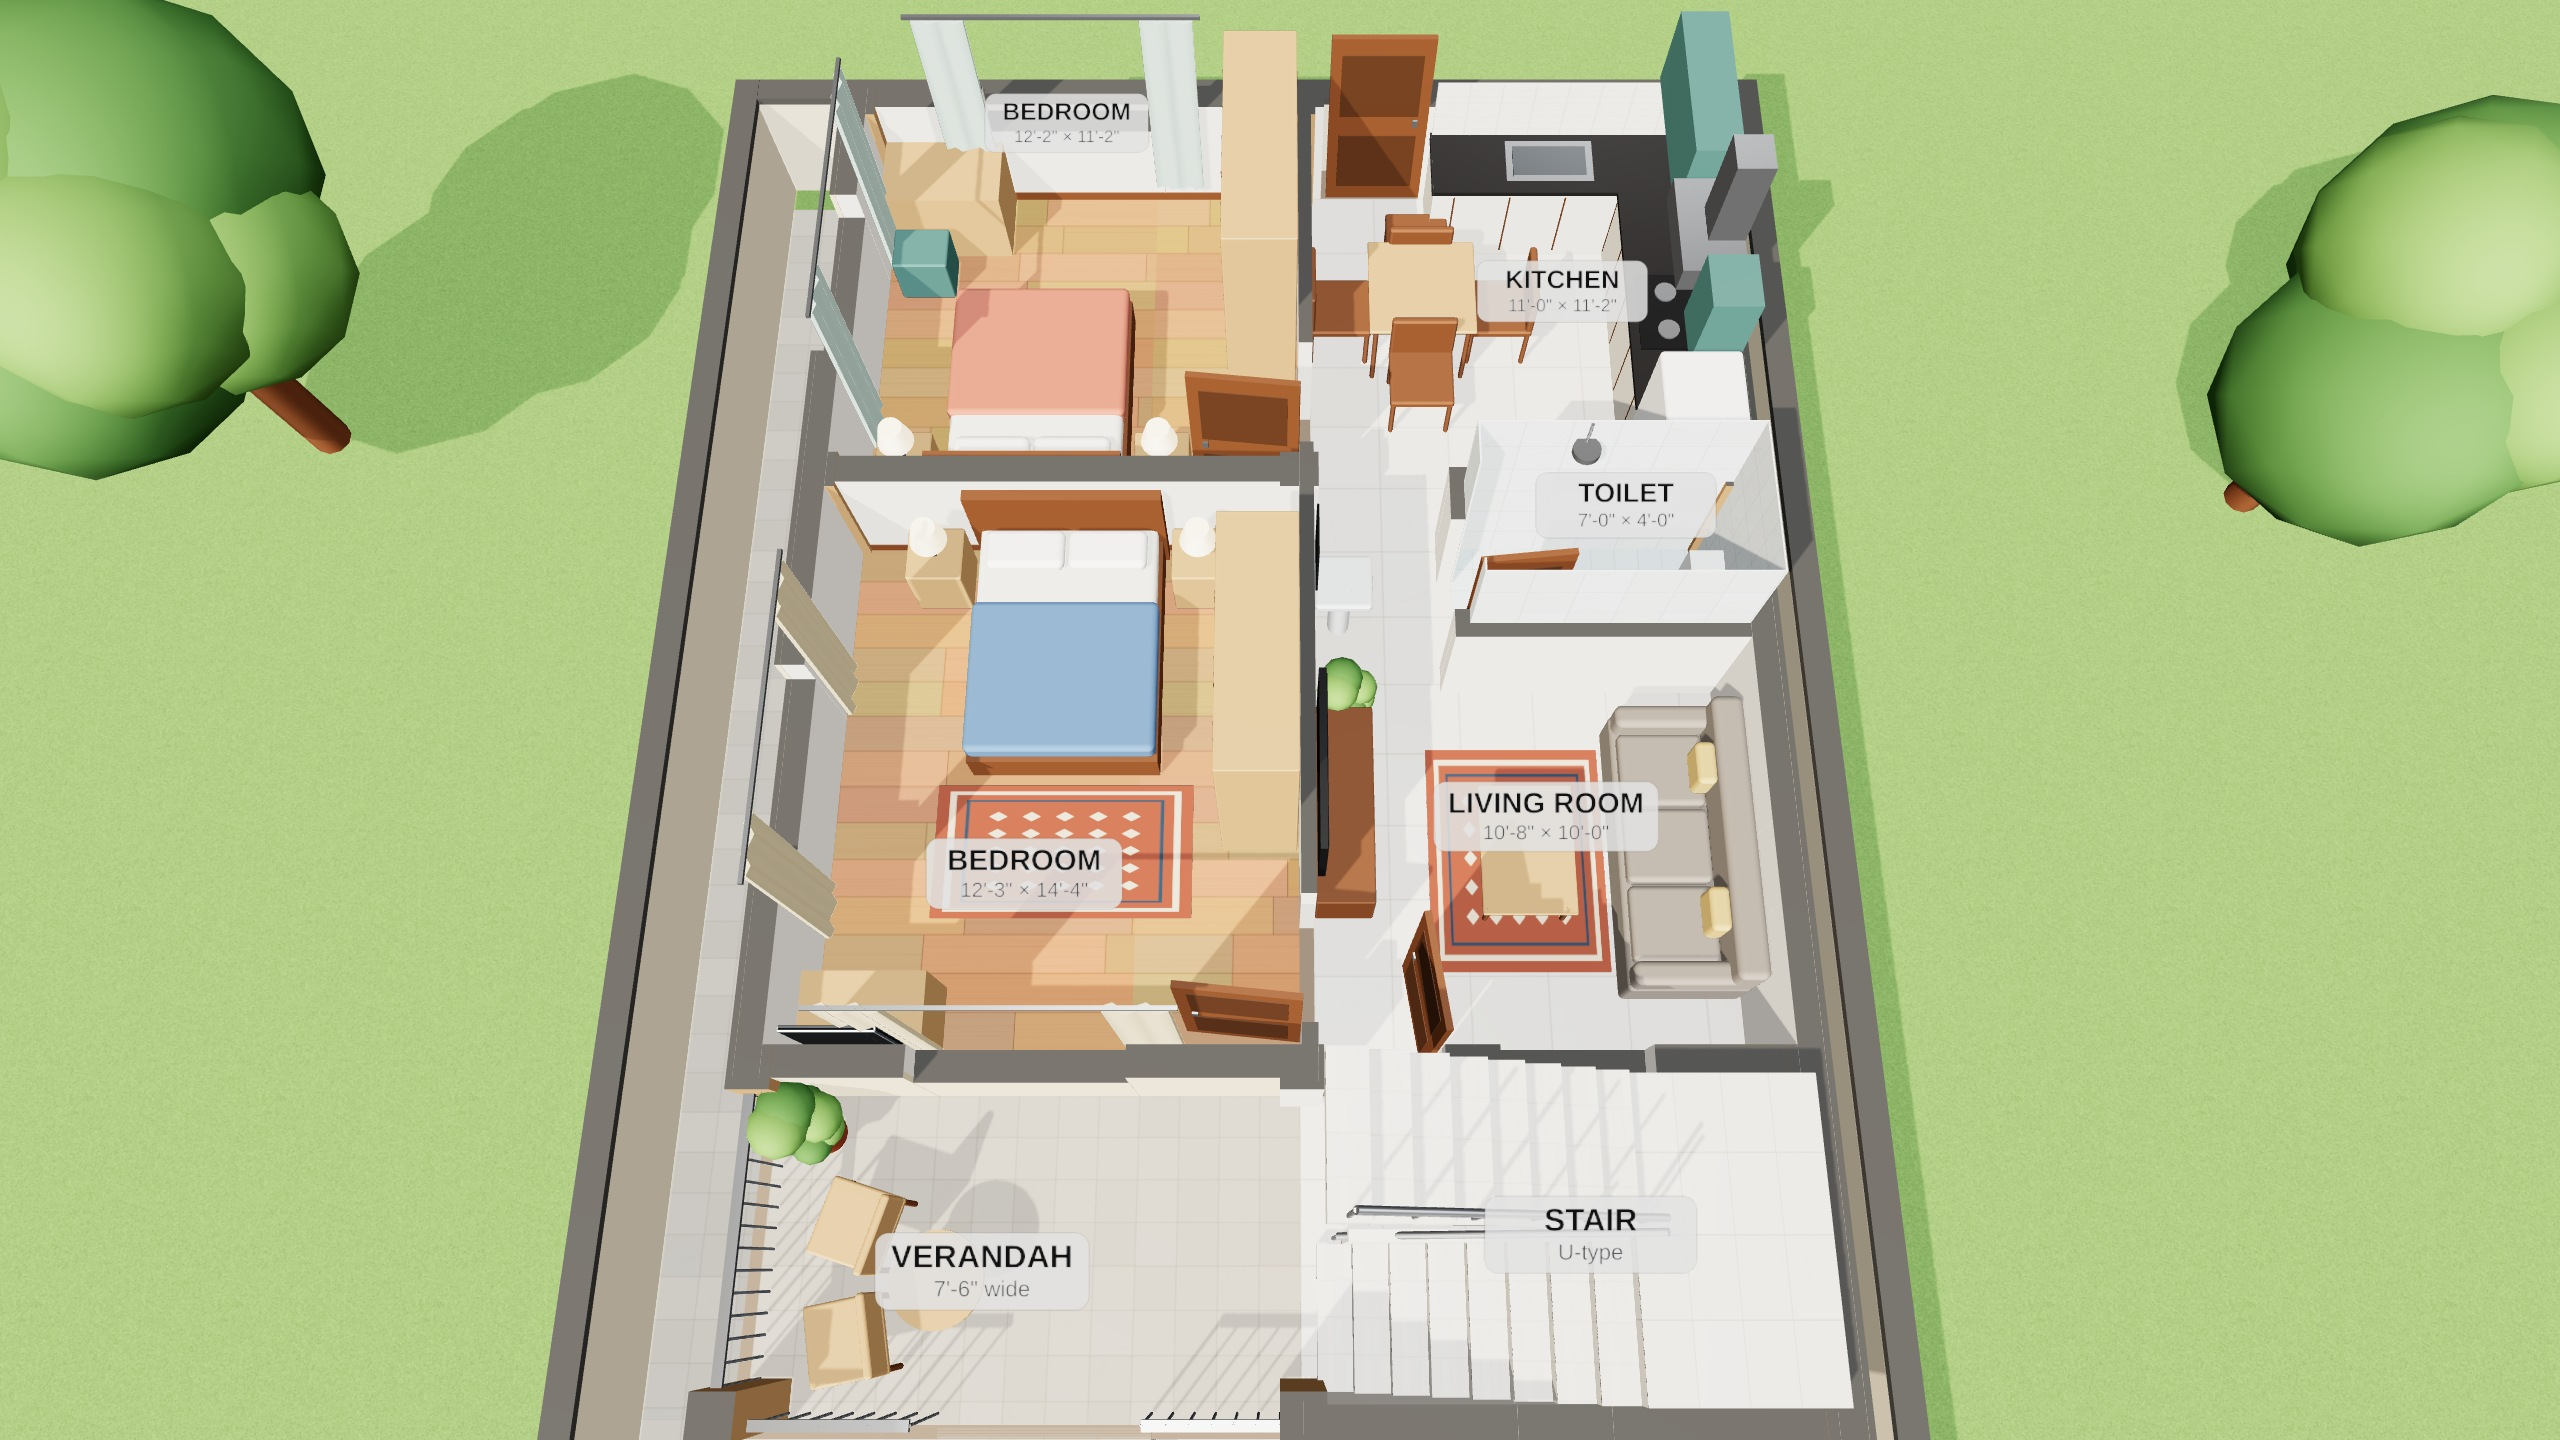
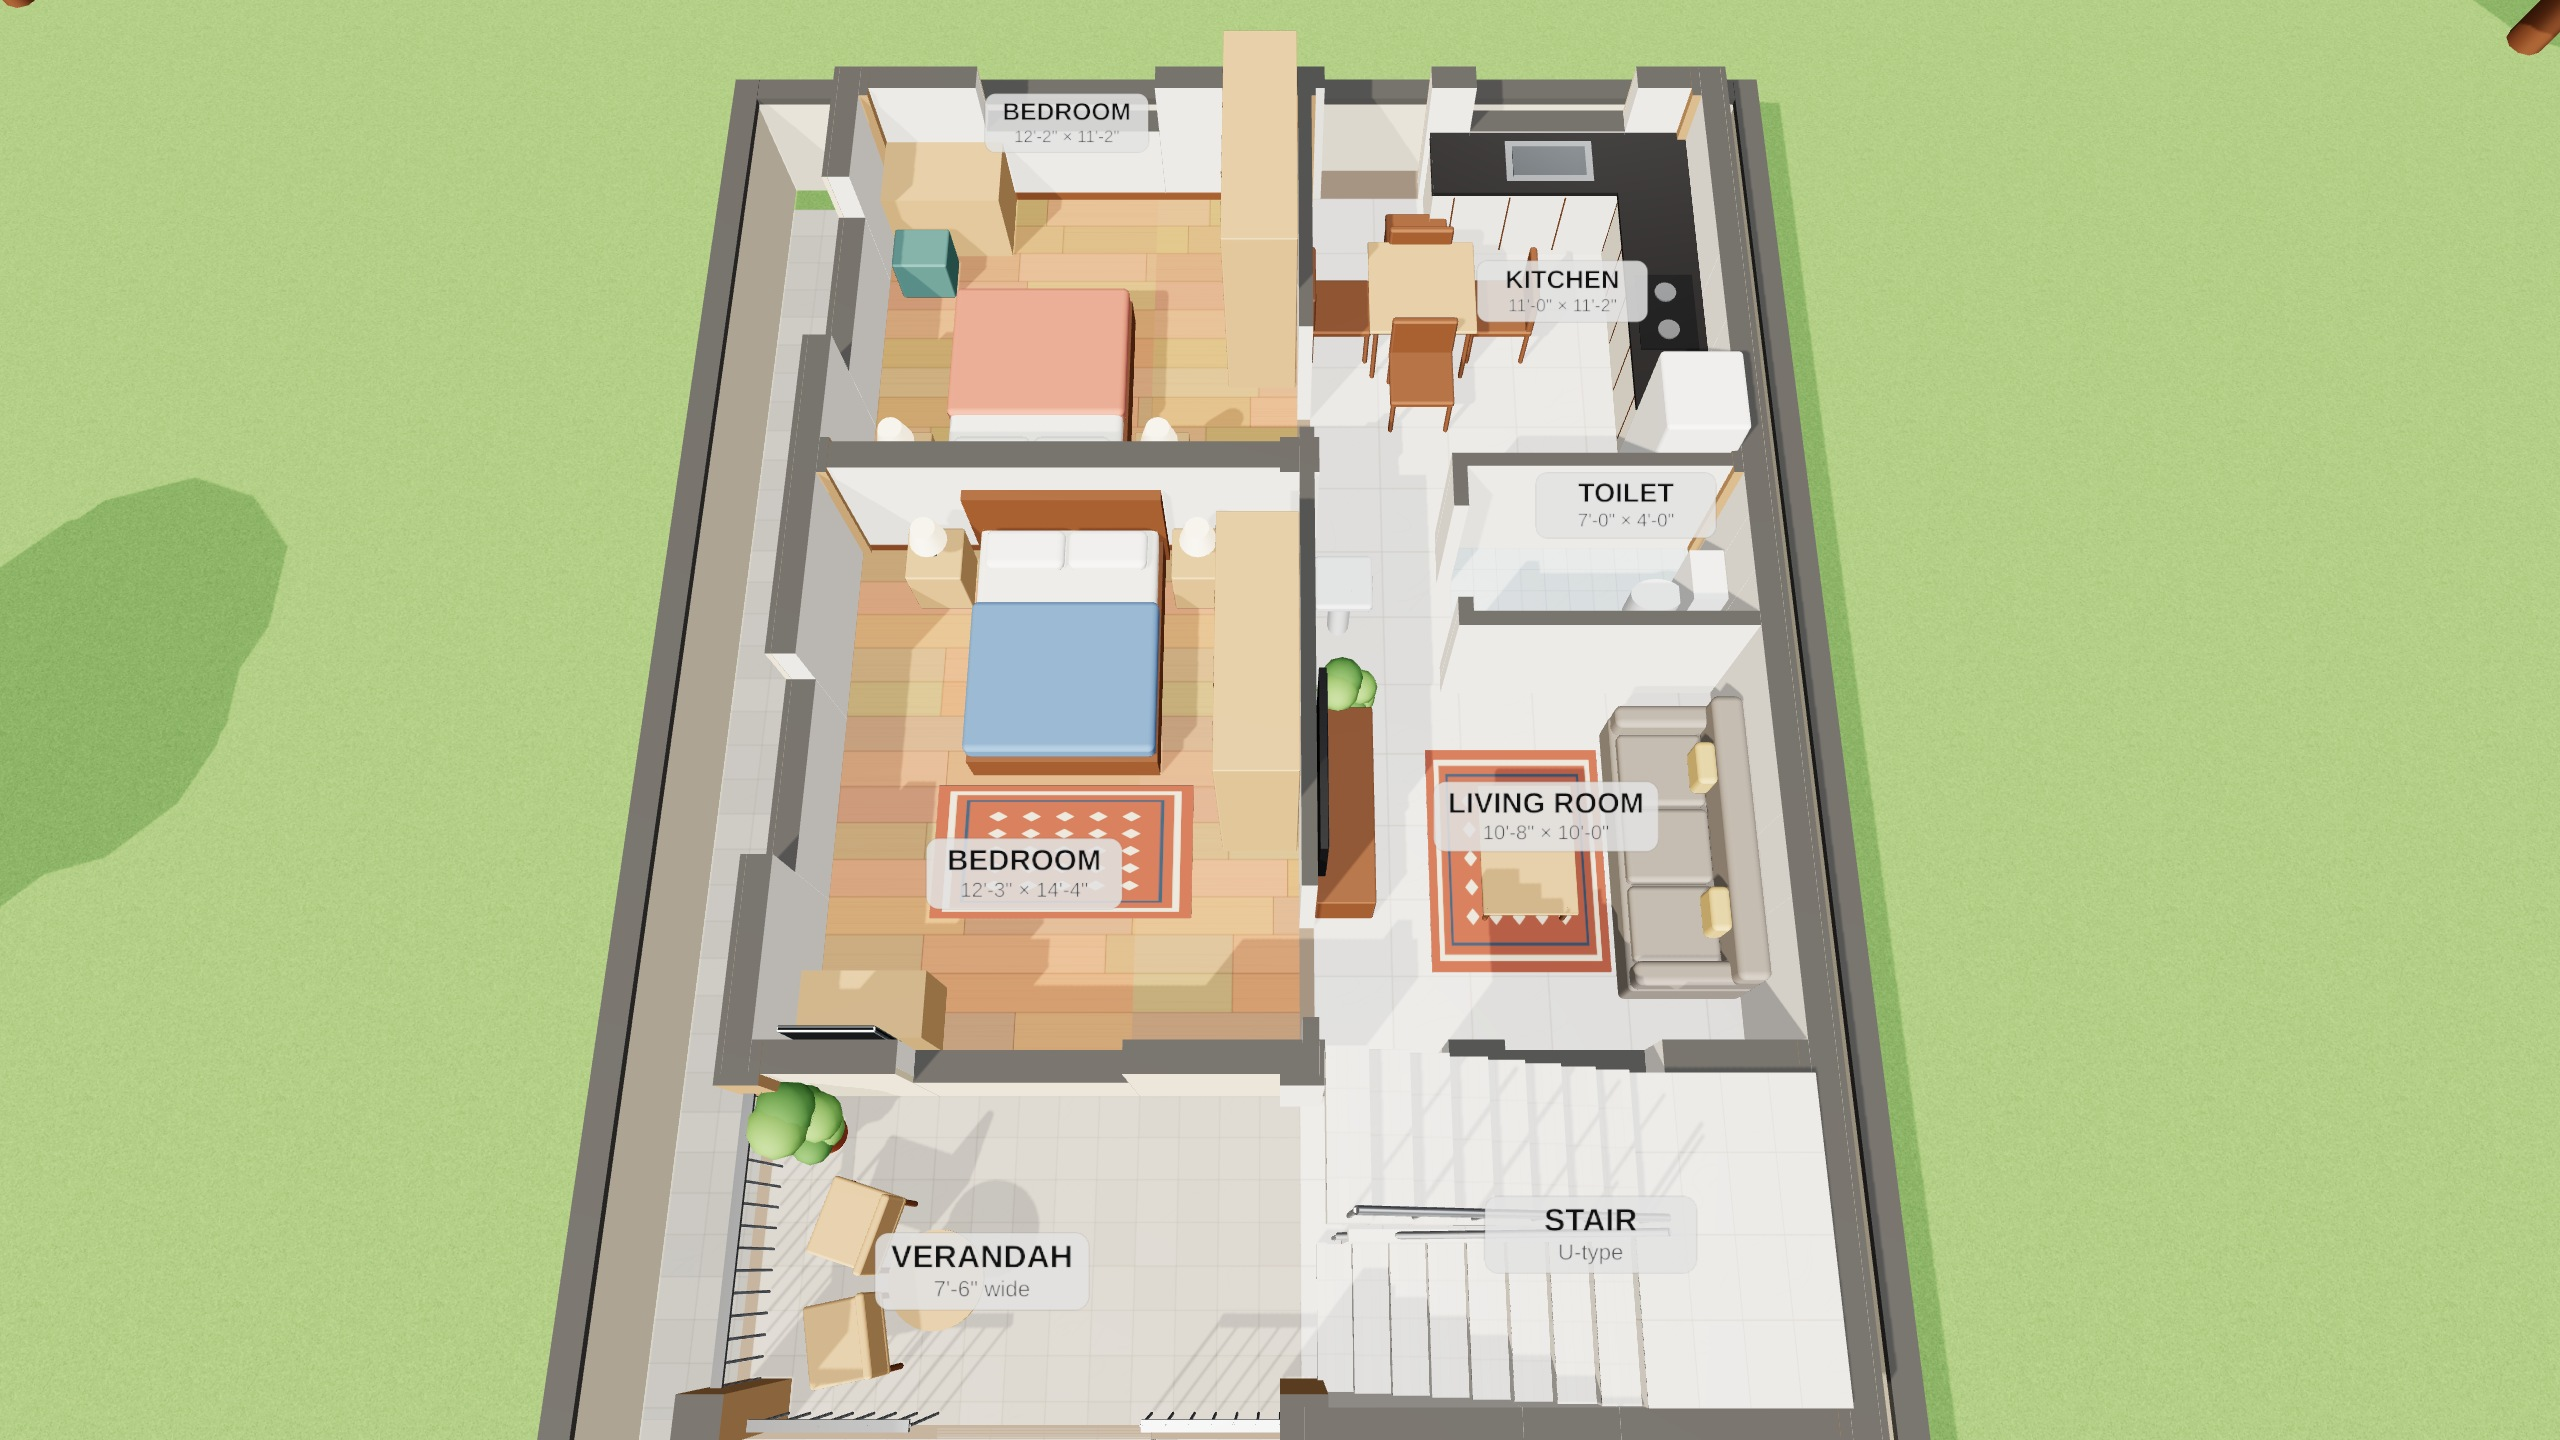
Add half-wall 3D views of the ground floor
The walls cut at 4'-9", half their height, with door leaves, curtains,
wall tiles and wall cabinets hidden, seen from the four corners, from
the front-left with room labels, and from the top.

Claude-Session: https://claude.ai/code/session_01L3hZmj9oe8Yfp8ZvHXW3mm

diff --git a/media/house-3d/house.js b/media/house-3d/house.js
@@ -162,6 +162,7 @@ const walls = new THREE.Group(); scene.add(walls);          // full-height walls
 const cutWalls = new THREE.Group(); scene.add(cutWalls);    // walls cut at 4 ft, for the plan view
 const ceiling = new THREE.Group(); scene.add(ceiling);
 const labels = new THREE.Group(); scene.add(labels);
+const tall = new THREE.Group(); scene.add(tall);             // above half height: hidden in the half-wall views
 const fans = [];
 
 function addTo(group, mesh, cast = true, recv = true) { mesh.castShadow = cast; mesh.receiveShadow = recv; group.add(mesh); return mesh; }
@@ -254,7 +255,7 @@ function buildWalls(group, top) {
   }
 }
 buildWalls(walls, TOP);
-buildWalls(cutWalls, FL + 4);
+buildWalls(cutWalls, FL + 4.75);    // half of the 9'-6" walls
 // beams over the verandah
 bx(0, 13.5, TOP - 1.0, TOP, 0, 1, M.column, walls);
 bx(0, 1, TOP - 1.0, TOP, 0, 8.25, M.column, walls);
@@ -294,7 +295,7 @@ function leaf(x, z, w, ang, h = DOOR - 0.2, mat = M.wood) {
     bx(0.3, w - 0.3, ya, yb, 0.07, 0.1, M.frame, g, false); bx(0.3, w - 0.3, ya, yb, -0.1, -0.07, M.frame, g, false);
   }
   g.position.set(x, 0, z); g.rotation.y = -ang;
-  scene.add(g); return g;
+  tall.add(g); return g;
 }
 leaf(16.1, 8.2, 2.6, Math.PI / 2 + 0.15);        // main door, hinged on its right, open into the living room
 leaf(13.0, 8.9, 2.85, Math.PI - 0.1);            // bedroom 1, open against its front wall
@@ -408,7 +409,7 @@ function tree(x, z, s = 1) {
     m.castShadow = true; scene.add(m);
   }
 }
-for (const [x, z, s] of [[-16, 27, 1.2], [-18, 45, 1.3], [41, 25, 1.1], [40, 46, 1.3], [6, 56, 1.2], [24, 58, 1.0], [-34, -26, 1.0], [58, -20, 1.1]]) tree(x, z, s);
+for (const [x, z, s] of [[-27, 12, 1.2], [-30, 44, 1.3], [51, 10, 1.1], [54, 42, 1.3], [-24, 70, 1.2], [46, 72, 1.0], [12, 80, 1.2], [-34, -26, 1.0], [58, -20, 1.1]]) tree(x, z, s);
 
 // ---- furniture -----------------------------------------------------------------------------
 function bed(x0, x1, z0, z1, headAt, blanket) {     // headAt: 'z1' or 'z0'
@@ -454,9 +455,9 @@ function curtains(xa, xb, za, zb, mat, inset) {      // two panels either side o
     const m = new THREE.Mesh(geo, mat);
     const c = end === 0 ? (alongX ? xa - 0.5 : za - 0.5) : (alongX ? xb + 0.5 : zb + 0.5);
     if (alongX) m.position.set(c, FL + 4.2, za + inset); else m.position.set(xa + inset, FL + 4.2, c);
-    m.castShadow = true; scene.add(m);
-    if (alongX) bx(xa - 1.4, xb + 1.4, FL + 7.55, FL + 7.65, za + inset - 0.05, za + inset + 0.05, M.steel);
-    else bx(xa + inset - 0.05, xa + inset + 0.05, FL + 7.55, FL + 7.65, za - 1.4, zb + 1.4, M.steel);
+    m.castShadow = true; tall.add(m);
+    if (alongX) bx(xa - 1.4, xb + 1.4, FL + 7.55, FL + 7.65, za + inset - 0.05, za + inset + 0.05, M.steel, tall);
+    else bx(xa + inset - 0.05, xa + inset + 0.05, FL + 7.55, FL + 7.65, za - 1.4, zb + 1.4, M.steel, tall);
   }
 }
 function fan(x, z) {
@@ -506,25 +507,25 @@ bx(13.42, 13.6, FL + 3.0, FL + 5.6, 12.4, 16.8, M.black); bx(13.6, 13.62, FL + 3
 plant(14.3, 17.6, 0.7);
 // passage: wash basin and mirror
 cyl(14.1, FL, FL + 2.6, 20.25, 0.3, M.white, 16); rb(13.4, 14.9, FL + 2.6, FL + 2.95, 19.5, 21.0, M.white, 0.12);
-bx(13.4, 13.45, FL + 3.8, FL + 6.0, 19.6, 20.9, M.mirror);
+bx(13.4, 13.45, FL + 3.8, FL + 6.0, 19.6, 20.9, M.mirror, tall);
 // toilet: wall tiles to 7', WC, shower
-bx(17.25, 24.25, FL, FL + 7, 18.63, 18.68, M.bathWall); bx(17.25, 24.25, FL, FL + 7, 22.57, 22.62, M.bathWall);
-bx(24.2, 24.25, FL, FL + 7, 18.63, 22.62, M.bathWall);
-bx(17.25, 17.3, FL, FL + 7, 18.63, 19.0, M.bathWall); bx(17.25, 17.3, FL, FL + 7, 21.5, 22.62, M.bathWall);
+bx(17.25, 24.25, FL, FL + 7, 18.63, 18.68, M.bathWall, tall); bx(17.25, 24.25, FL, FL + 7, 22.57, 22.62, M.bathWall, tall);
+bx(24.2, 24.25, FL, FL + 7, 18.63, 22.62, M.bathWall, tall);
+bx(17.25, 17.3, FL, FL + 7, 18.63, 19.0, M.bathWall, tall); bx(17.25, 17.3, FL, FL + 7, 21.5, 22.62, M.bathWall, tall);
 bx(23.3, 24.2, FL, FL + 2.6, 19.9, 21.3, M.white);
 const bowl = cyl(22.7, FL, FL + 1.3, 20.6, 0.55, M.white, 24); bowl.scale.set(1.3, 1, 0.85);
-cyl(20.0, FL + 6.0, FL + 6.2, 22.3, 0.35, M.steel, 16); cyl(20.0, FL + 6.2, FL + 7.0, 22.5, 0.04, M.steel, 8);
+cyl(20.0, FL + 6.0, FL + 6.2, 22.3, 0.35, M.steel, 16, tall); cyl(20.0, FL + 6.2, FL + 7.0, 22.5, 0.04, M.steel, 8, tall);
 // kitchen: L counter, sink, hob, chimney, wall cabinets, fridge, table
 bx(16.9, 24.25, FL, FL + 2.8, 32.5, 34.5, M.cabinet); bx(16.85, 24.25, FL + 2.8, FL + 2.95, 32.4, 34.5, M.granite);
 bx(22.25, 24.25, FL, FL + 2.8, 25.4, 32.5, M.cabinet); bx(22.15, 24.25, FL + 2.8, FL + 2.95, 25.4, 32.5, M.granite);
 for (let x = 17.5; x < 24; x += 1.6) bx(x, x + 0.04, FL + 0.2, FL + 2.6, 32.48, 32.5, M.frame);
 for (let z = 26.0; z < 32.5; z += 1.6) bx(22.23, 22.25, FL + 0.2, FL + 2.6, z, z + 0.04, M.frame);
-bx(16.9, 24.25, FL + 2.95, FL + 5.0, 34.42, 34.47, M.backsplash); bx(24.17, 24.22, FL + 2.95, FL + 5.0, 25.4, 34.47, M.backsplash);
+bx(16.9, 24.25, FL + 2.95, FL + 5.0, 34.42, 34.47, M.backsplash, tall); bx(24.17, 24.22, FL + 2.95, FL + 5.0, 25.4, 34.47, M.backsplash, tall);
 bx(19.0, 21.5, FL + 2.75, FL + 2.96, 32.8, 34.2, M.steel); bx(19.2, 21.3, FL + 2.5, FL + 2.97, 33.0, 34.0, std(0x9aa0a5, 0.25, 0.9));
 bx(22.4, 24.0, FL + 2.95, FL + 3.0, 27.2, 29.6, M.black);
 for (const z of [27.8, 29.0]) cyl(23.2, FL + 3.0, FL + 3.06, z, 0.3, M.steel, 20);
-bx(22.6, 24.25, FL + 6.0, FL + 6.8, 27.0, 29.8, M.steel); bx(23.3, 24.25, FL + 6.8, TOP, 27.9, 28.9, M.steel);
-bx(23.0, 24.25, FL + 5.2, FL + 7.6, 30.0, 34.45, M.cabinetAccent); bx(23.0, 24.25, FL + 5.2, FL + 7.6, 25.4, 26.9, M.cabinetAccent);
+bx(22.6, 24.25, FL + 6.0, FL + 6.8, 27.0, 29.8, M.steel, tall); bx(23.3, 24.25, FL + 6.8, TOP, 27.9, 28.9, M.steel, tall);
+bx(23.0, 24.25, FL + 5.2, FL + 7.6, 30.0, 34.45, M.cabinetAccent, tall); bx(23.0, 24.25, FL + 5.2, FL + 7.6, 25.4, 26.9, M.cabinetAccent, tall);
 rb(22.1, 24.2, FL, FL + 5.9, 23.05, 25.3, M.white, 0.12);
 rb(15.0, 18.0, FL + 2.45, FL + 2.6, 28.0, 31.0, M.woodLight, 0.05);
 for (const [x, z] of [[15.2, 28.2], [17.8, 28.2], [15.2, 30.8], [17.8, 30.8]]) cyl(x, FL, FL + 2.45, z, 0.07, M.wood, 8);
@@ -571,6 +572,10 @@ scene.add(sun, sun.target);
 const camera = new THREE.PerspectiveCamera(50, W / H, 0.2, 600);
 const C = new THREE.Vector3(12.5, FL, 17.6);
 function place(px, py, pz, tx, ty, tz) { camera.position.set(px, py, -pz); camera.lookAt(tx, ty, -tz); }
+function half(deg, h = 40) {          // a corner view of the half-wall model
+  const a = THREE.MathUtils.degToRad(deg);
+  place(C.x + 40 * Math.cos(a), h, C.z + 46 * Math.sin(a), C.x, 1.5, C.z);
+}
 const ease = t => t < 0.5 ? 4 * t * t * t : 1 - Math.pow(-2 * t + 2, 3) / 2;
 
 function hermite(keys, t) {          // keys: [time, ...values]; Catmull-Rom with uneven times
@@ -616,16 +621,21 @@ const WALK = [
   [60, 8.2, E, 12.6, 0.5, 6.0, 14.5],
 ];
 const SHOTS = {
-  aerial: { dur: 11, setup() { walls.visible = true; cutWalls.visible = false; ceiling.visible = false; labels.visible = false; renderer.toneMappingExposure = 0.95; },
+  aerial: { dur: 11, setup() { tall.visible = true; walls.visible = true; cutWalls.visible = false; ceiling.visible = false; labels.visible = false; renderer.toneMappingExposure = 0.95; },
     cam(t) { const u = ease(t / 11); const a = THREE.MathUtils.degToRad(208 + 122 * u); const r = 40 - 5 * u, h = 33 - 6 * u;
       place(C.x + r * Math.cos(a), h, C.z + r * Math.sin(a), C.x, 2, C.z + 1.5); } },
-  plan: { dur: 7, setup() { walls.visible = false; cutWalls.visible = true; ceiling.visible = false; labels.visible = true; renderer.toneMappingExposure = 1.0; },
+  plan: { dur: 7, setup() { tall.visible = false; walls.visible = false; cutWalls.visible = true; ceiling.visible = false; labels.visible = true; renderer.toneMappingExposure = 1.0; },
     cam(t) { const u = ease(t / 7); place(12.5, 47 - 8 * u, 1 + 3 * u, 12.5, 0, 18.0); } },
-  walk: { dur: 60, setup() { walls.visible = true; cutWalls.visible = false; ceiling.visible = true; labels.visible = false; renderer.toneMappingExposure = 1.1; },
+  walk: { dur: 60, setup() { tall.visible = true; walls.visible = true; cutWalls.visible = false; ceiling.visible = true; labels.visible = false; renderer.toneMappingExposure = 1.1; },
     cam(t) { const [x, y, z, tx, ty, tz] = hermite(WALK, t); place(x, y, z, tx, ty, tz);
       for (const f of fans) f.rotation.y = t * 9; } },
   stillA: { dur: 1, setup() { SHOTS.aerial.setup(); }, cam() { const a = THREE.MathUtils.degToRad(232); place(C.x + 37 * Math.cos(a), 31, C.z + 37 * Math.sin(a), C.x, 2, C.z + 1.5); } },
   stillB: { dur: 1, setup() { SHOTS.aerial.setup(); }, cam() { const a = THREE.MathUtils.degToRad(305); place(C.x + 37 * Math.cos(a), 31, C.z + 37 * Math.sin(a), C.x, 2, C.z + 1.5); } },
+  halfFL: { dur: 1, fov: 40, setup() { SHOTS.plan.setup(); labels.visible = false; }, cam() { half(222); } },
+  halfFR: { dur: 1, fov: 40, setup() { SHOTS.plan.setup(); labels.visible = false; }, cam() { half(318); } },
+  halfRL: { dur: 1, fov: 40, setup() { SHOTS.plan.setup(); labels.visible = false; }, cam() { half(138); } },
+  halfRR: { dur: 1, fov: 40, setup() { SHOTS.plan.setup(); labels.visible = false; }, cam() { half(42); } },
+  halfLabels: { dur: 1, fov: 40, setup() { SHOTS.plan.setup(); }, cam() { half(236, 44); } },
   stillPlan: { dur: 1, setup() { SHOTS.plan.setup(); }, cam() { place(12.5, 41, 3.5, 12.5, 0, 18.0); } },
   stillLiving: { dur: 1, setup() { SHOTS.walk.setup(); }, cam() { place(15.2, E, 17.6, 20.5, 5.0, 10.0); } },
   stillKitchen: { dur: 1, setup() { SHOTS.walk.setup(); }, cam() { place(14.4, E, 24.0, 21.5, 5.0, 32.5); } },

diff --git a/media/house-3d/README.md b/media/house-3d/README.md
@@ -21,6 +21,14 @@ A 3D model of the drawn ground floor, with photos from the air and room by room.
 | 10, 11 | Kitchen, and the dining corner looking back |
 | 12, 13 | Bedroom 1 and bedroom 2 |
 
+`photos/half-wall/` holds the half-wall views: the walls are cut at 4'-9", half their height, so every room shows. The tall things are hidden in these views: door leaves, curtains, wall tiles, kitchen wall cabinets.
+
+| Photo | View |
+| --- | --- |
+| 1–4 | From the front-left, front-right, rear-left and rear-right |
+| 5 | Front-left, with the room names and sizes |
+| 6 | From the top, labelled |
+
 The model follows the drawing's openings:
 - W5 windows, the M.D main door and the W4 window;
 - V.2 and V.3 ventilators;
@@ -41,4 +49,5 @@ npm install three@0.160.0
 python3 -m http.server 8765 &          # from this folder, with node_modules beside index.html
 node stills.js stillA stillB stillPlan stillVerandah stillEntry stillLiving stillLiving2 \
   stillPassage stillToilet stillKitchen stillKitchen2 stillBed1 stillBed2
+node stills.js halfFL halfFR halfRL halfRR halfLabels stillPlan       # the half-wall views
 ```
